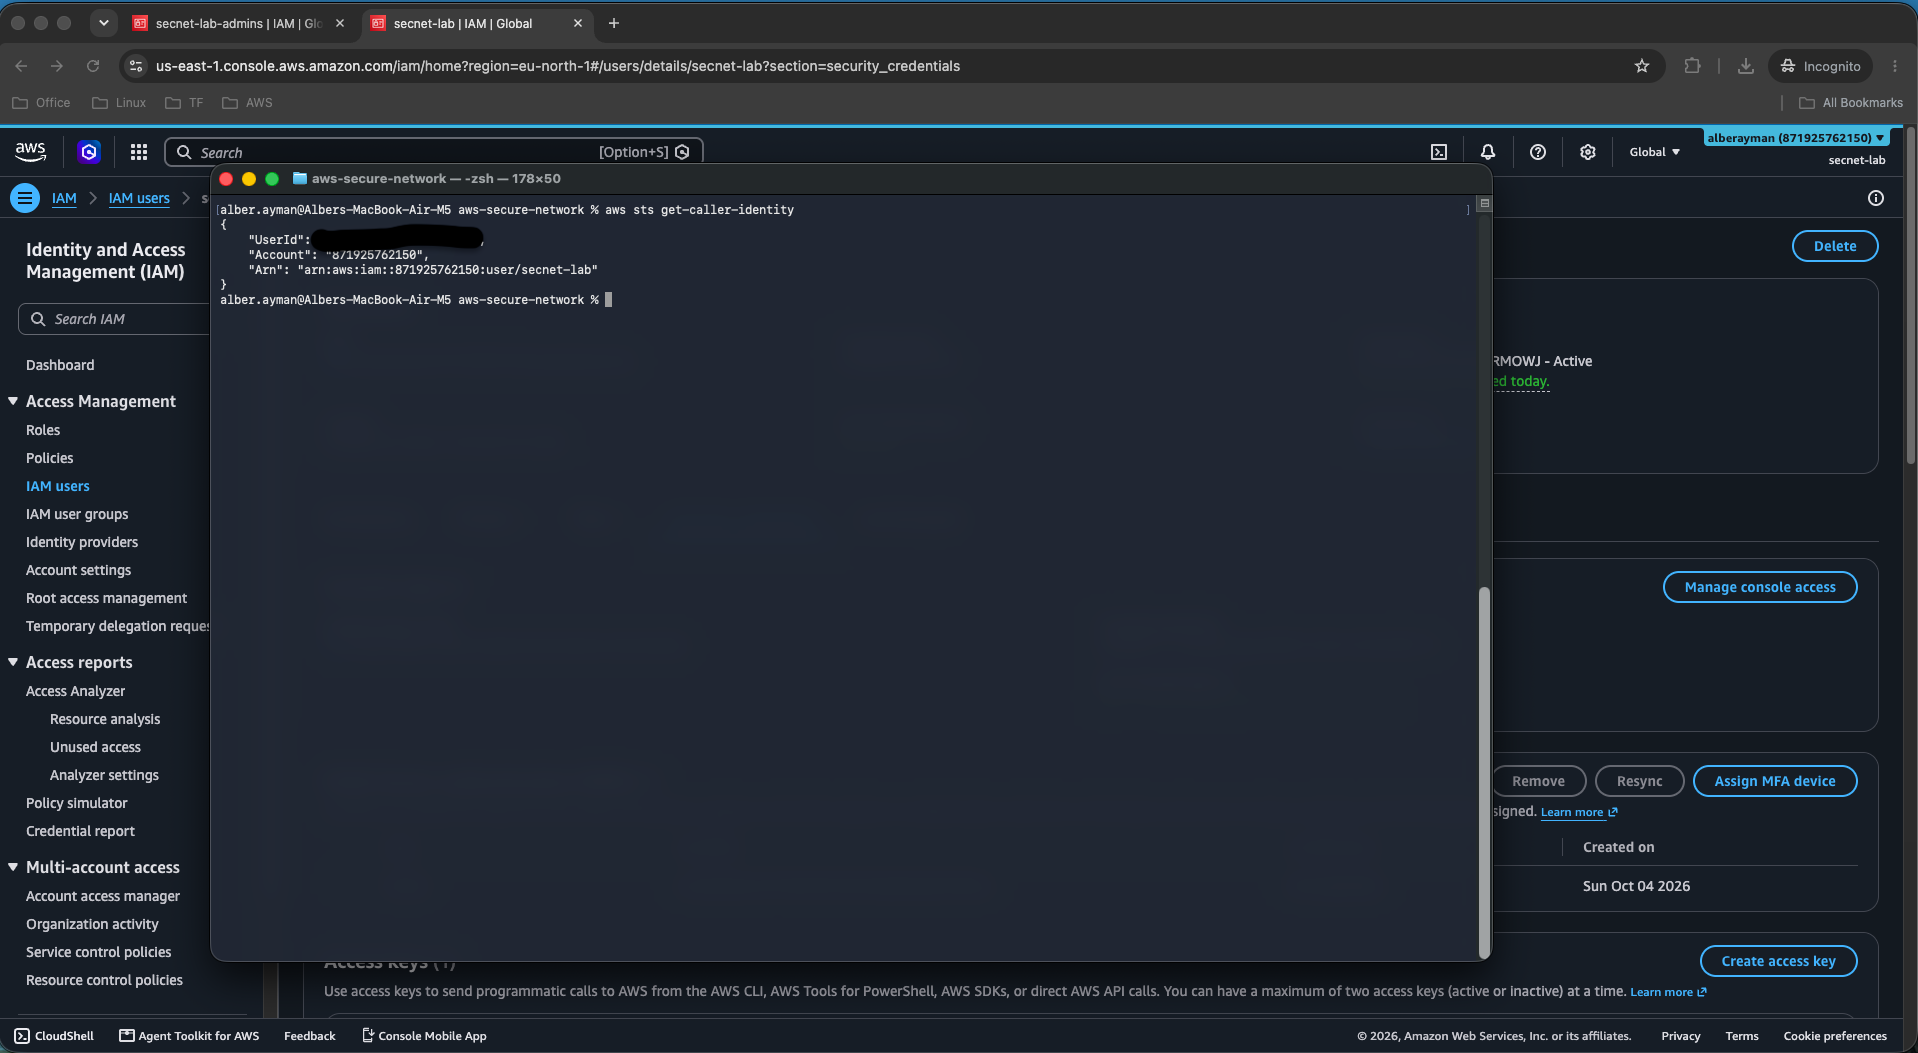
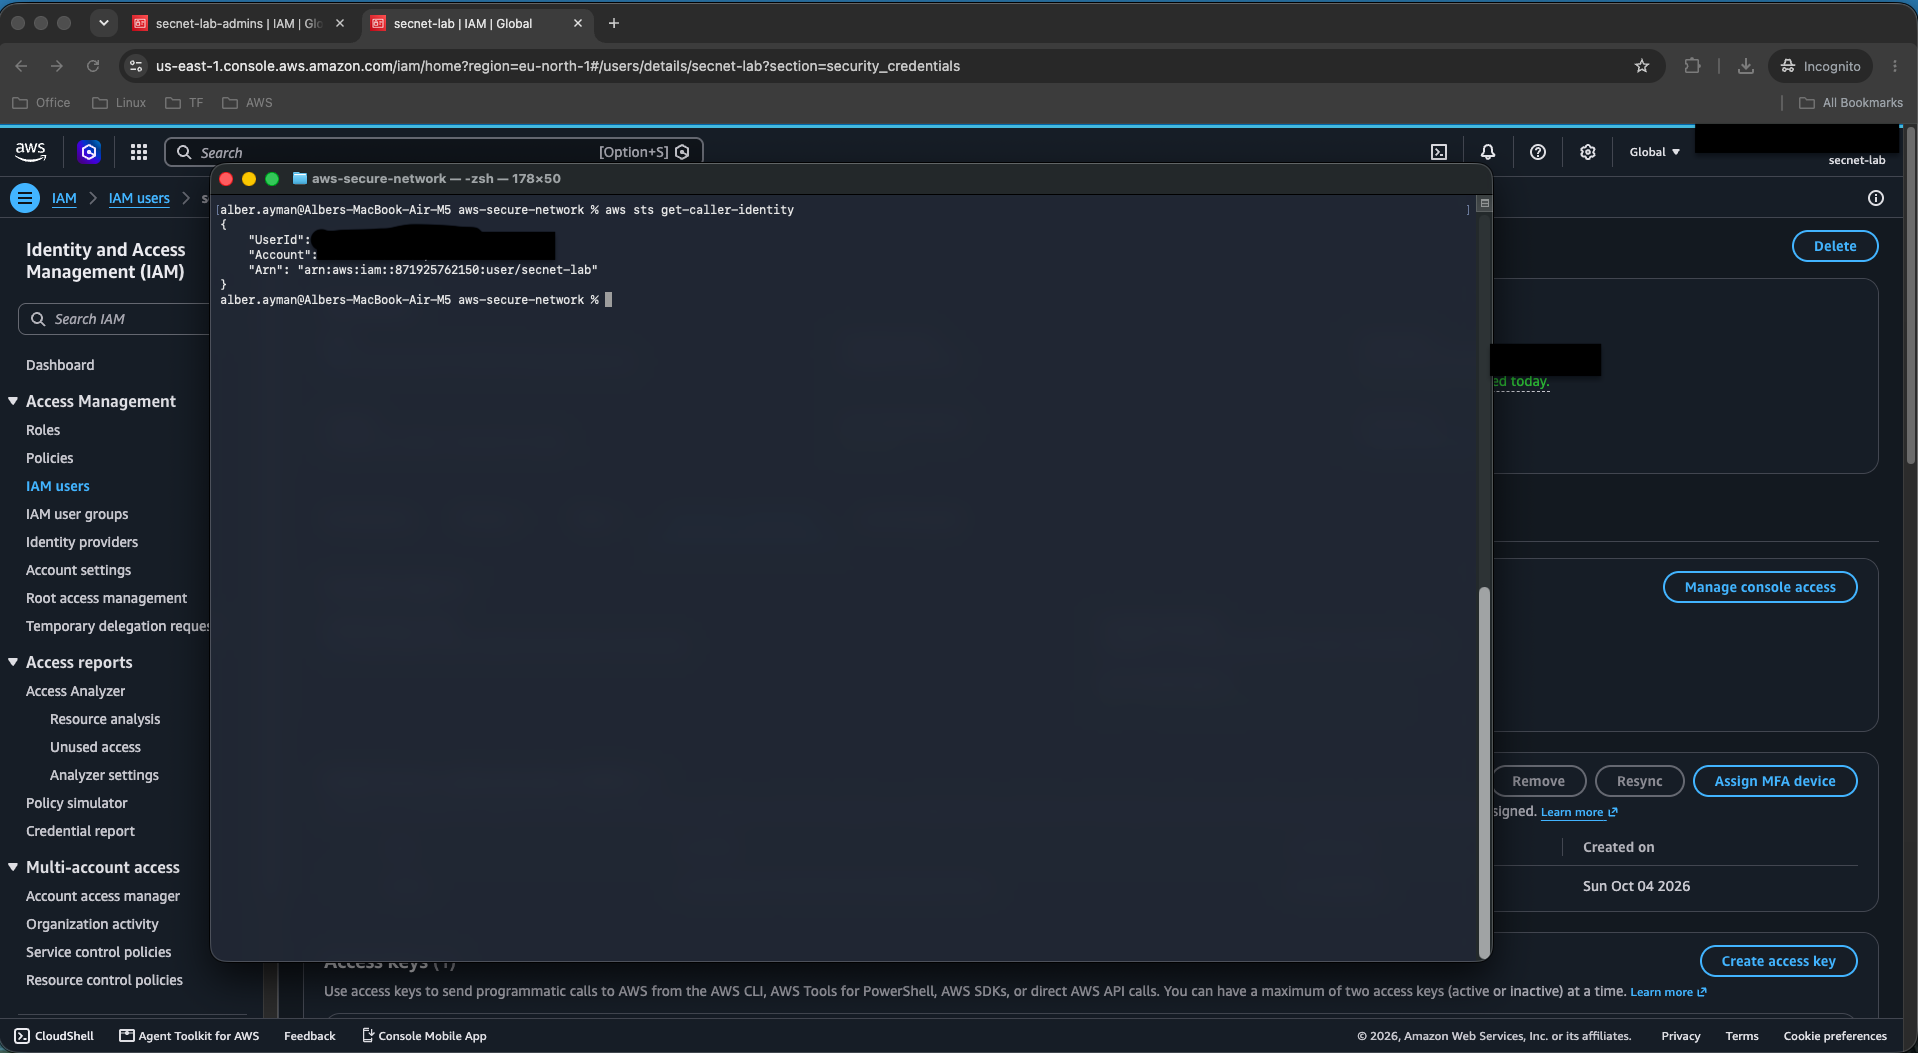
feat(week1): hub VPC console lab + terraform apply, tests and evidence; fix cloudwatch metric filters

Changed region(s): [[0.8613, 0.0912, 1.0, 0.1519], [0.1846, 0.2127, 0.3076, 0.2735], [0.769, 0.3039, 0.8613, 0.3647]]

diff --git a/docs/week1/README.md b/docs/week1/README.md
@@ -6,23 +6,54 @@ Guide: [`docs/guides/`](../guides/) · Evidence: [`docs/evidence/week1/`](../evi
 
 | Deliverable | Member(s) | Status | Link |
 |---|---|---|---|
-| VPC design | 1 Taghride | Not started | |
+| VPC design | 1 Taghride | Console lab 1.1 done by Alber (2026-10-05); Terraform pending | [resource map](../evidence/week1/w1-1.1-console-resource-map.png) |
 | Subnet / CIDR plan | 1 Taghride | Not started | |
 | EC2 / ALB / RDS deployment | 2 Ahlam | Not started | |
-| SG / NACL rules matrix | 4 Asmaa | Not started | |
+| SG / NACL rules matrix | 4 Asmaa | Private NACL + default SG done in console lab 1.1 by Alber; full matrix pending | [NACL rules](../evidence/week1/w1-1.1-nacl-rules-Inbound.png) |
 | Architecture diagram | 1 Taghride | Not started | |
 | Connectivity test results | 2 Ahlam | Not started | |
 | Bastion vs SSM comparison (extra, answers "bastion/SSM access") | 4 Asmaa, 2 Ahlam | Not started | |
 
 ## What we built
 
+### Task 1.1 – Hub VPC (console lab, 2026-10-05, done by Alber as `secnet-lab`)
+
+Built by hand with **VPC and more** to learn each setting; it is deleted before the Terraform version is applied (console and Terraform must not both own a resource).
+
+- VPC `secnet-vpc` (`vpc-0cbf713505aadf521`), 10.0.0.0/16, eu-west-1, DNS hostnames + resolution on.
+- Subnets: public1 10.0.1.0/24 (eu-west-1a), public2 10.0.2.0/24 (eu-west-1b), private1 10.0.11.0/24 (eu-west-1a), private2 10.0.12.0/24 (eu-west-1b).
+- Internet gateway `igw-08a04c9ed87eaeac8`; one zonal NAT gateway `nat-08f6caabde94baf4b` in public1 (single NAT = cheaper, but one AZ is a single point of failure for private egress).
+- Route tables: `secnet-rtb-public` (0.0.0.0/0 → IGW), `secnet-rtb-private1/2` (0.0.0.0/0 → NAT). The console makes one private table per AZ; our Terraform uses one shared private table.
+- Default security group `sg-0e4b7f6e71f4aef4c` emptied (no inbound, no outbound) – CIS / Security Hub EC2.2.
+- Private NACL `secnet-private-nacl` (`acl-054a448ae2cfc214f`) associated with both private subnets:
+  - Inbound: 100 all from 10.0.0.0/16 · 110 TCP 1024-65535 from 0.0.0.0/0 · 120 UDP 1024-65535 from 0.0.0.0/0 · * deny.
+  - Outbound: 100 all to 0.0.0.0/0 · * deny.
+  - Rules 110/120 exist because NACLs are stateless: return traffic for connections the private hosts open through the NAT arrives on ephemeral ports.
+
 ## Tests (command · expected · actual)
 
 | # | Command | Expected | Actual | Screenshot |
 |---|---|---|---|---|
-| 1 | | | | |
+| 1.1-a | Console: VPC `secnet-vpc` > Resource map | 4 subnets in 2 AZs, IGW, 1 NAT, public + private route tables | 4 subnets (1a/1b), `secnet-igw`, `secnet-nat-public1-eu-west-1a`, 4 route tables (incl. unused main) | [resource map](../evidence/week1/w1-1.1-console-resource-map.png) |
+| 1.1-b | Console: Subnets > public2 > Route table | 10.0.0.0/16 → local, 0.0.0.0/0 → IGW | `secnet-rtb-public`: local + 0.0.0.0/0 → `igw-08a04c9ed87eaeac8` | [rt-public](../evidence/week1/w1-1.1-rt-public.png) |
+| 1.1-c | Console: Subnets > private2 > Route table | 10.0.0.0/16 → local, 0.0.0.0/0 → NAT, no IGW route | `secnet-rtb-private2-eu-west-1b`: local + 0.0.0.0/0 → `nat-08f6caabde94baf4b` | [rt-private](../evidence/week1/w1-1.1-rt-private.png) |
+| 1.1-d | Console: Security groups > `sg-0e4b7f6e71f4aef4c` > Inbound / Outbound | No rules on either tab | "No security group rules found" on both; default VPC's SG untouched | [inbound](../evidence/week1/w1-1.1-default-sg-empty-Inbound.png) · [outbound](../evidence/week1/w1-1.1-default-sg-empty-Outbound.png) |
+| 1.1-e | Console: Network ACLs > `secnet-private-nacl` > Inbound / Outbound | In: 100, 110, 120, * deny. Out: 100, * deny | Matches exactly (4 inbound, 2 outbound) | [inbound](../evidence/week1/w1-1.1-nacl-rules-Inbound.png) · [outbound](../evidence/week1/w1-1.1-nacl-rules-Outbound.png) |
+| 1.1-f | Console: Network ACLs > `secnet-private-nacl` > Subnet associations | private1 + private2 on the custom NACL; public subnets stay on the main NACL | private1 (10.0.11.0/24) + private2 (10.0.12.0/24) associated; main NACL now 2 subnets | [associations](../evidence/week1/w1-1.1-nacl-associations.png) |
+| 1.1-g | Terraform: `terraform apply tf.plan` then `terraform plan` (drift check) | 68/68 resources; second plan reports no differences | Apply complete after one fix-up (see Problems); `No changes. Your infrastructure matches the configuration.` | [outputs](../evidence/week1/w1-1.1-tf-outputs.png) · [no-changes](../evidence/week1/w1-1.1-tf-plan-no-changes.png) |
+| 1.4-a | Mac: `curl -s -o /dev/null -w "%{http_code}" http://<alb_url>` | 200 – internet reaches the web server only through the ALB | `200`; browser shows "secnet web server" from ip-10-0-11-110 (HTTP, "Not Secure" until Week 3 HTTPS) | [alb-curl-200](../evidence/week1/w1-1.4-alb-curl-200.png) · [browser](../evidence/week1/w1-1.4-alb-browser.png) |
+| 1.4-b | Mac: `nc -zv -G 5 <db_endpoint> 3306` | Fails – RDS has no public IP (`publicly_accessible = false`), endpoint resolves to a private 10.0.x address | `connectx … port 3306 (tcp) failed: Network is unreachable`; `dig +short <db_endpoint>` = `10.0.11.187` (private, private1 subnet). Note: proves no public path; SG rule itself to be tested in Week 2 from a non-web host | [db-blocked](../evidence/week1/w1-1.4-db-from-internet-blocked.png) · [dns](../evidence/week1/w1-1.4-db-dns-private.png) |
+| 1.4-c | SSM: `aws ssm start-session --target i-0a58dd6834802446f`, then `curl -s localhost` and `bash -c '</dev/tcp/<db_endpoint>/3306'` | Shell without SSH key or open port 22; web page served; RDS port 3306 reachable from EC2 | Session `secnet-lab-…` opened; `<h1>secnet web server</h1>` from ip-10-0-11-110; `3306 OPEN` | [ssm-db-open](../evidence/week1/w1-1.4-ssm-db-open.png) |
+| 1.5-a | GitHub Actions: `terraform-ci` on `main` | fmt, validate, TFLint pass; Checkov soft-fail | Run #5 (commit 403c1be) green | [ci-green](../evidence/week1/w1-1.5-ci-green.png) |
 
 ## Problems and how we fixed them
+
+| Date | Problem | Cause | Fix |
+|---|---|---|---|
+| 2026-10-04 | `terraform-ci` failed (exit 2) on runs #1–#4 | TFLint `terraform_required_version` / `terraform_required_providers` warnings: modules had no `versions.tf` | Added `versions.tf` to all 5 modules (Terraform ≥ 1.10, AWS ≥ 5.80 < 6.0); run #5 green |
+| 2026-10-05 | VPC wizard defaults did not match the CIDR plan | Wizard proposes its own subnet CIDRs, NAT = None, S3 gateway endpoint on | Customised CIDRs (and fixed a typo `10.0.120/24` → `10.0.12.0/24`), NAT = Zonal in 1 AZ, endpoints = None |
+| 2026-10-05 | First Terraform apply: 2 of 68 failed (CloudWatch metric filters), then retry failed again | (1) `default_value` + `dimensions` not allowed together; (2) metric-filter dimensions must be log fields, not fixed text – not catchable by offline validate/mocks | One namespace per VPC (`secnet/Network/<vpc>`), no dimensions, default 0; alarms + dashboard updated; apply 2 added / 3 changed |
+| 2026-10-05 | Private NACL created but protected nothing | Creating a NACL does not attach it; the private subnets stayed on the allow-all main NACL | Edited subnet associations to private1 + private2, re-verified (test 1.1-f) |
 
 ## Cost and cleanup
 

diff --git a/docs/change-log.md b/docs/change-log.md
@@ -5,6 +5,10 @@ AWS account gets one entry here, newest first (see `CHANGE_POLICY.md` in the pro
 
 | Date / time (UTC) | Who applied | Tier | Change (switch / module) | Plan summary | Approved by | Team chat notice | Result / verification |
 |---|---|---|---|---|---|---|---|
+| 2026-10-05 21:26 | Alber (secnet-lab) | 2 | Week 1 fix-up apply: CloudWatch metric filters `rejects["hub"]`, `ssh["hub"]` (namespace `secnet/Network/hub`, no dimensions, default 0); alarms `secnet-hub-rejected-flows-spike`, `secnet-hub-ssh-attempt` + dashboard `secnet-network` moved to new namespace. Blast radius: hub monitoring only. Undo: revert commit + plan/apply, no data loss. Cost ~$0 | 2 to add, 3 to change, 0 to destroy (tf.plan saved 21:24, reviewed in session) | Alber – "yes" in session, 2026-10-05 21:26 UTC | n/a (solo build) | Apply complete ~21:26 UTC: 2 added, 3 changed, 0 destroyed. Week 1 total now 68/68 resources. Outputs recorded (ALB URL, RDS endpoint, web instance `i-0a58dd6834802446f` at 10.0.11.110). Follow-up `terraform plan` = No changes (verified, screenshot w1-1.1-tf-plan-no-changes.png). Tests 1.4-a/b/c passed. SNS email subscription confirmed (`list-subscriptions-by-topic` returns a full subscription ARN, not PendingConfirmation). |
+| 2026-10-05 21:09 | Alber (secnet-lab) | 2 | Week 1 first apply: `terraform apply tf.plan` (envs/dev, `enable_nat=true`, all other switches false). Modules vpc, compute, monitoring + budget `secnet-monthly`. Blast radius: new hub VPC only; default VPC, state bucket, IAM untouched. Undo: `terraform destroy` (not reversible: log bucket contents via force_destroy, RDS data – no final snapshot; both empty now). Est. cost ~$0.13/h (NAT, ALB, RDS, EC2, 3 public IPv4) – estimate, not from pricing page. Pre-checks: no existing `secnet-monthly` budget, no existing CloudTrail trail | 68 to add, 0 to change, 0 to destroy (plan reviewed in session; tf.plan saved 20:41) | Alber – replied "ready" in session after plan review, 2026-10-05 21:09 UTC | n/a (solo build) | PARTIAL (ended 21:17 UTC): 66 of 68 created incl. RDS (6m3s). 2 failed: `aws_cloudwatch_log_metric_filter.rejects["hub"]` and `.ssh["hub"]` – CloudWatch 400 `dimensions and default value are mutually exclusive`. Code bug (not caught by offline validate/mocks). Fix: removed `default_value` in modules/monitoring/cloudwatch.tf; needs re-plan (expect 2 to add) + new approval. Retry 21:2x UTC (plan 2 add/0/0, applied by Alber without a recorded yes – process gap, noted): FAILED again, nothing created – `dimension value must be valid selector` (metric-filter dimensions must be log fields, not fixed text). Fix 2: one namespace per VPC (`secnet/Network/<vpc>`), no dimensions, `default_value = 0` restored; alarms + dashboard updated to match. Needs re-plan (expect 2 add, ~3 change) + recorded yes. Completed by the fix-up apply logged above (68/68). Overnight decision: default destroy at end of session unless Alber chooses keep |
+| 2026-10-05 ~20:45 | Alber (secnet-lab) | 2 | Console lab 1.1 deleted by hand: NAT gateway `secnet-nat-public1-eu-west-1a` (`nat-08f6caabde94baf4b`), its Elastic IP, VPC `secnet-vpc` (`vpc-0cbf713505aadf521`) with its subnets, IGW `igw-08a04c9ed87eaeac8`, route tables, `secnet-private-nacl`. Reason: console and Terraform must not both own the hub VPC; stops NAT hourly charge | n/a – console resources, not in Terraform | Alber | n/a | Verified 2026-10-05 via CLI as secnet-lab: `describe-vpcs` = only default `vpc-03d67fe7997d755dd` (172.31.0.0/16); `describe-nat-gateways` (pending/available/deleting) and `describe-addresses` returned no rows |
+| 2026-10-05 | Alber | 1 | Decision (no AWS change): evidence screenshots may show the account ID. Reason: it is an identifier, not a credential, and is already in the repo via the state bucket name and `versions.tf`; blurring screenshots alone would not hide it. Still blurred: access key IDs, secret keys, VPN PSKs, public IPs, Client VPN config. Accepted risk: easier reconnaissance (guessing role ARNs, targeted phishing); mitigated by MFA, budget alerts, short-lived lab account, private repo | n/a | Alber | n/a | CLAUDE.md, CHANGE_POLICY.md, CHECKLIST.md, CONTRIBUTING.md updated. Revisit before making the repo public |
 | 2026-10-04 ~13:10 | Alber (secnet-lab) | 1 | Terraform S3 backend connected (`terraform init`), provider pinned in `.terraform.lock.hcl` | n/a – no AWS resources created | Alber | n/a | `terraform validate`: valid |
 | 2026-10-04 12:56 | Alber (secnet-lab) | 2 | S3 state bucket `secnet-tfstate-871925762150` created by hand (console): versioning, Block Public Access, SSE-S3, tags | n/a – not managed by Terraform | Alber | n/a | `get-bucket-versioning` = Enabled; all 4 public-access blocks true; evidence `w0-0.4-state-bucket-*.png` |
 | 2026-10-04 12:48 | Alber (secnet-lab) | 1 | Service Quotas: VPCs per Region (eu-west-1) 5 → 10 requested | n/a | Alber | n/a | Status PENDING; re-check before Week 2 |

diff --git a/docs/guides/week4-detection-ir.md b/docs/guides/week4-detection-ir.md
@@ -167,7 +167,7 @@ Console steps:
 2. **IAM** > **Roles** > Create > *Custom trust policy* with principal `vpc-flow-logs.amazonaws.com`. Inline policy: `logs:CreateLogStream`, `logs:PutLogEvents`, `logs:DescribeLogStreams` on that log group only. Name it `secnet-flowlogs-to-cloudwatch`.
 3. **VPC** > hub VPC > **Flow logs** > Create: filter **All**, interval **1 minute**, destination **CloudWatch Logs**, the log group, the role. (The S3 flow log from 2.5 stays: one VPC can have both.)
 4. Log group > **Metric filters** > Create:
-   - **Rejected flows from internal hosts**: pattern `[version, account_id, interface_id, srcaddr = "10.*", dstaddr, srcport, dstport, protocol, packets, bytes, start, end, action = "REJECT", log_status]`, namespace `secnet/Network`, metric `RejectedFlows`, value `1`, default `0`.
+   - **Rejected flows from internal hosts**: pattern `[version, account_id, interface_id, srcaddr = "10.*", dstaddr, srcport, dstport, protocol, packets, bytes, start, end, action = "REJECT", log_status]`, namespace `secnet/Network/hub` (one namespace per VPC; no dimensions), metric `RejectedFlows`, value `1`, default `0`.
    - **Internal SSH attempts**: the same, but `dstport = 22` and `action` without a condition. Metric `SSHAttempts`.
    - Why `srcaddr = "10.*"`: the internet scans our ALB and NAT public IPs all day, and counting that noise would make the alarm useless. We alarm on *our own* hosts behaving badly (lateral movement).
 5. **SNS** (eu-west-1) > topic `secnet-network-alerts` > email subscription > **confirm the email**.

diff --git a/docs/evidence/CHECKLIST.md b/docs/evidence/CHECKLIST.md
@@ -1,14 +1,14 @@
 # Evidence checklist – Project 2 (complete set, could be submitted alone)
 
 Tick each box when the evidence file exists **and** the result is written in the week README.
-File names: `w<week>-<task>-<what>.png` in `docs/evidence/week<N>/`. Blur the account ID and public IPs.
+File names: `w<week>-<task>-<what>.png` in `docs/evidence/week<N>/`. Blur access key IDs (even partial), secret keys, VPN PSKs, public IPs and Client VPN configs; the account ID may stay visible (decision 2026-10-05, see change log).
 For every task keep **one console screenshot + one Terraform proof** (plan summary, apply complete, `terraform output`).
 
 ## Guide 0 – Foundations (day 1)
 - [ ] `w0-0.1-root-mfa.png` – root MFA assigned
 - [ ] `w0-0.1-iam-users-mfa.png` – team users in `project-team`, MFA on
 - [ ] `w0-0.2-budget.png` – `secnet-monthly` with 4 alerts
-- [ ] `w0-0.3-sts-identity.txt` – `aws sts get-caller-identity` (blur the account ID)
+- [ ] `w0-0.3-sts-identity.txt` – `aws sts get-caller-identity` (blur the access key ID if it shows)
 - [ ] `w0-0.4-state-bucket.png` – versioning + Block Public Access ON
 - [ ] `w0-0.7-branch-protection.png` – `main` protected, secret scanning ON
 

diff --git a/CONTRIBUTING.md b/CONTRIBUTING.md
@@ -6,6 +6,6 @@
 4. Before pushing: `terraform fmt -recursive terraform` and `terraform -chdir=terraform/envs/dev validate` (or `make check`).
 5. Open a pull request with the template, paste the `plan` summary (no secrets), get one teammate's approval, wait for green CI, **Squash and merge**.
 6. Only one person runs `apply` at a time – announce it in the team chat.
-7. Evidence goes in `docs/evidence/week<N>/`. Blur account IDs, keys and public IPs in screenshots you publish.
+7. Evidence goes in `docs/evidence/week<N>/`. Blur access key IDs, secret keys, VPN PSKs and public IPs in screenshots you publish (the account ID may stay visible).
 8. Never commit: `*.tfstate`, `terraform.tfvars`, AWS keys, `.pem` files, the downloaded VPN configuration.
 9. End of session: `make sleep` and note it in the team chat.
